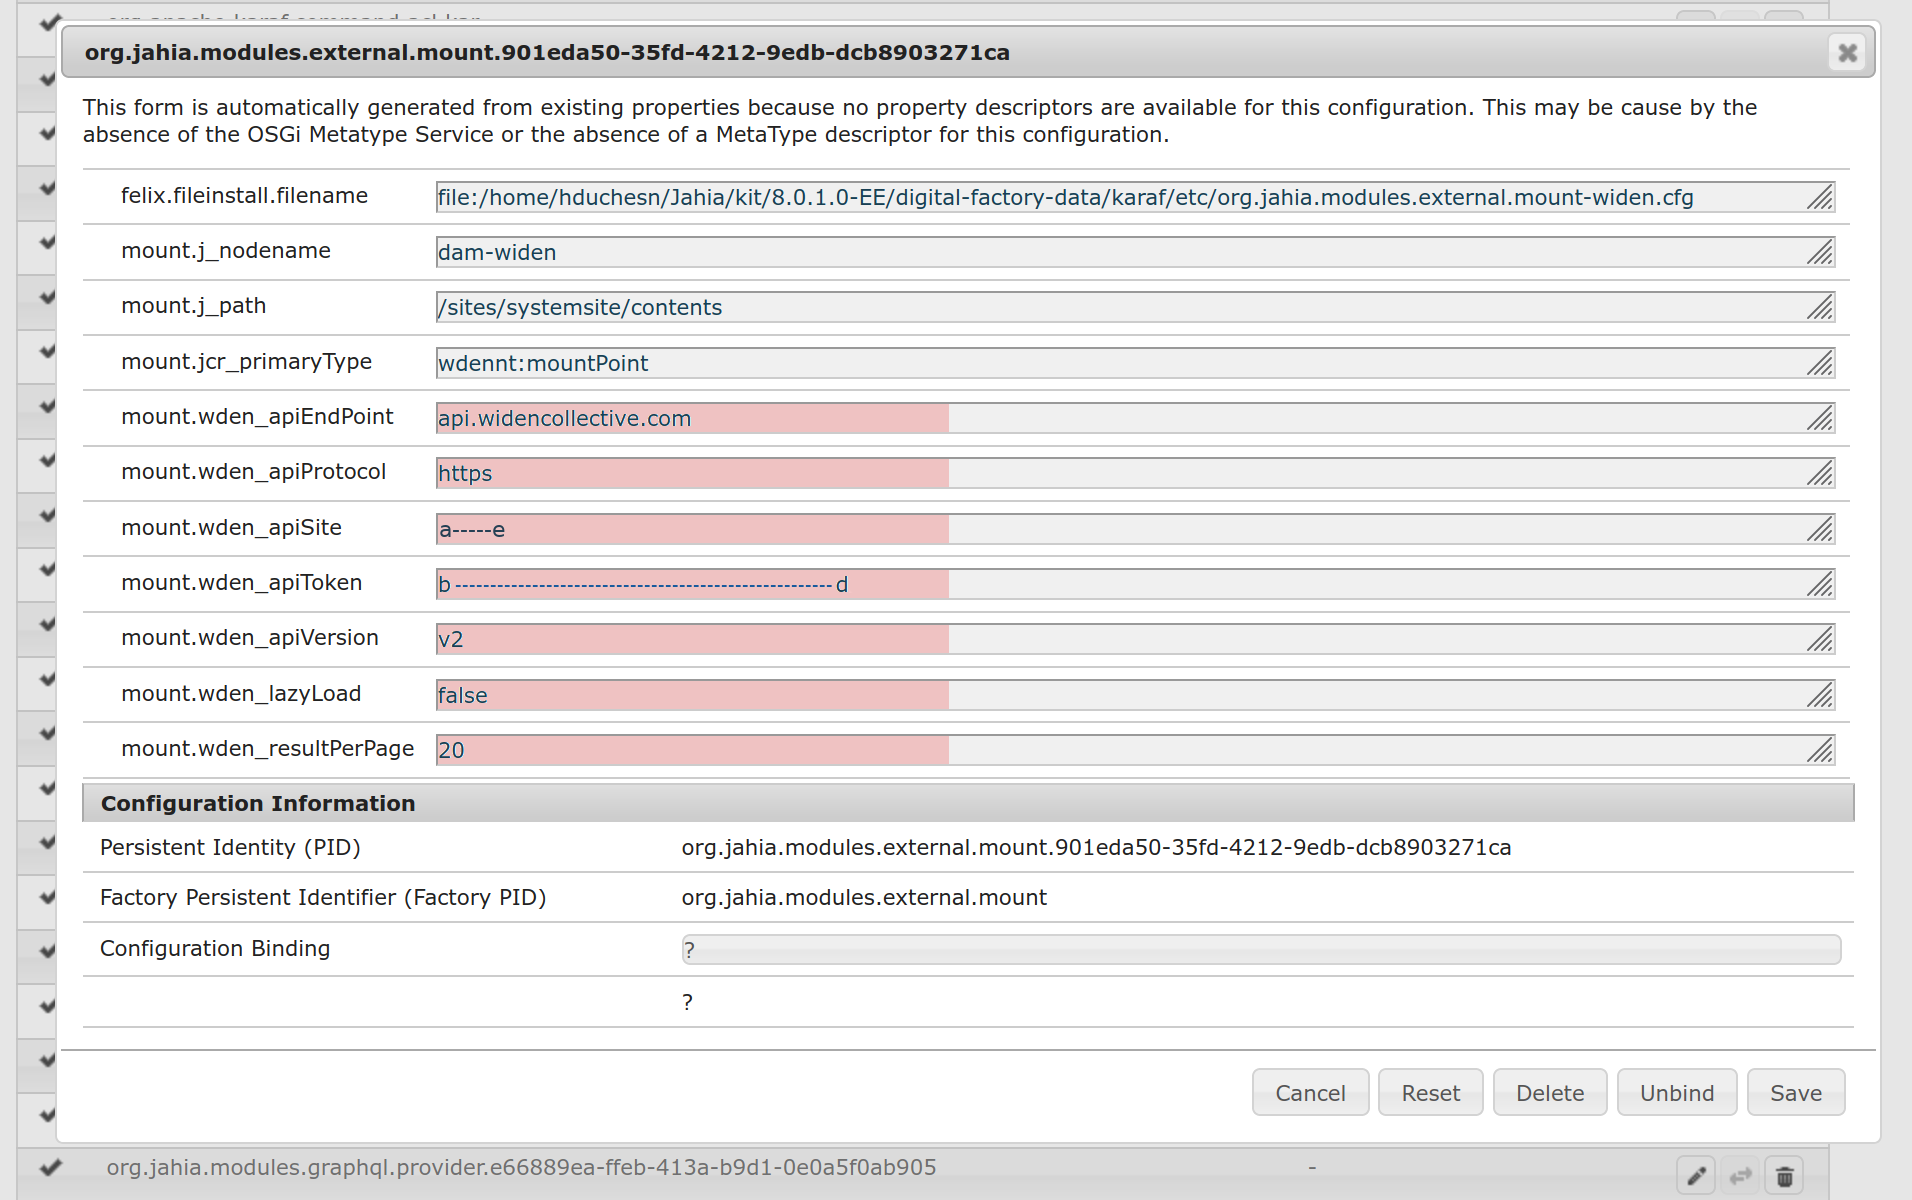
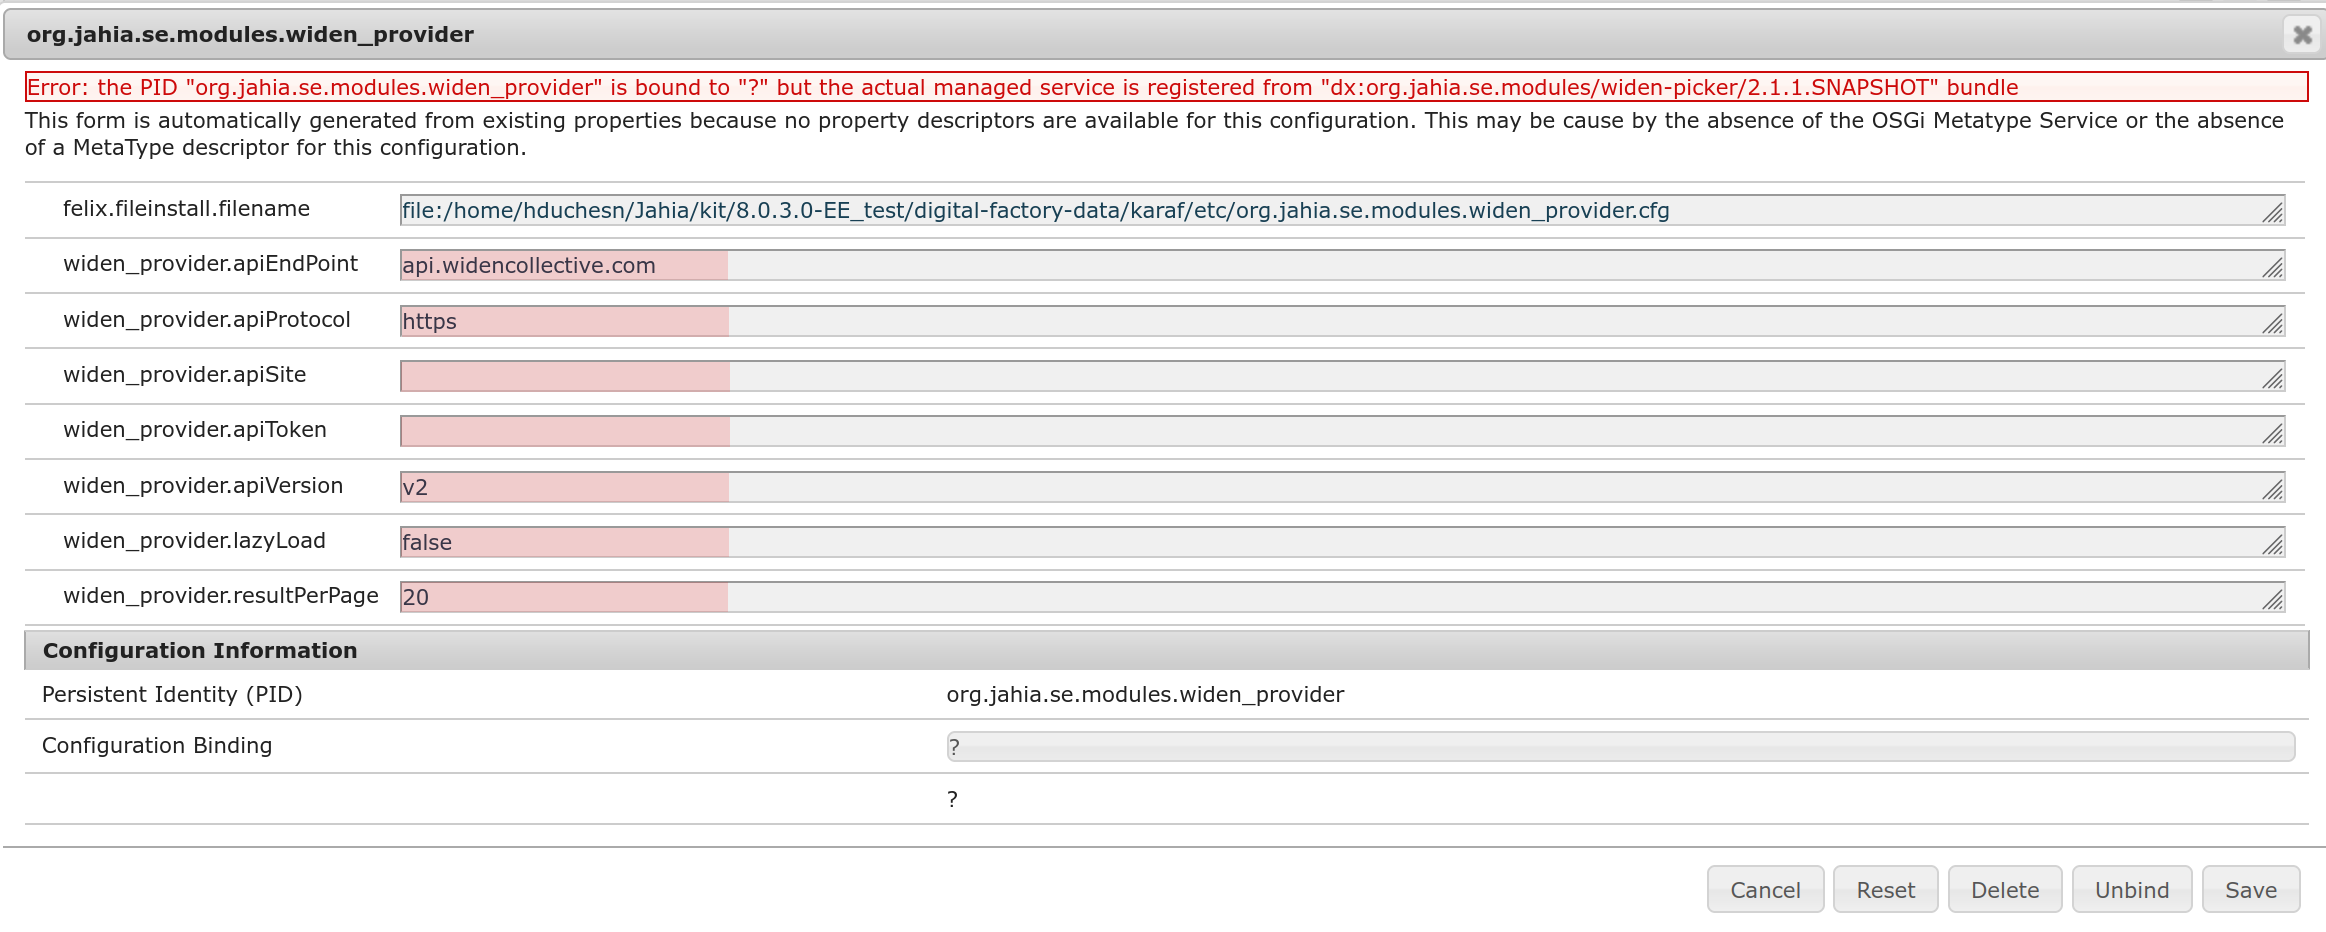
start to review the doc based on new changes

diff --git a/src/main/java/org/jahia/se/modules/edp/dam/widen/edp/WidenDataSource.java b/src/main/java/org/jahia/se/modules/edp/dam/widen/edp/WidenDataSource.java
@@ -27,15 +27,10 @@ public class WidenDataSource implements ExternalDataSource{
     private static final String ASSET_ENTRY = "assets";
     private static final String ASSET_ENTRY_EXPAND = "embeds,thumbnails,file_properties";
 
-//    private JahiaTemplatesPackage jahiaTemplatesPackage;
-
     private final ObjectMapper mapper = new ObjectMapper();
     private final WidenProviderConfig widenProviderConfig;
     private final WidenCacheManager widenCacheManager;
     private final HttpClient httpClient;
-
-//    private MountPoint wdenStoreMountPoint;
-
 
     public WidenDataSource(WidenProviderConfig widenProviderConfig, WidenCacheManager widenCacheManager) {
         this.widenProviderConfig = widenProviderConfig;
@@ -43,32 +38,6 @@ public class WidenDataSource implements ExternalDataSource{
         // instantiate HttpClient
         this.httpClient = new HttpClient();
     }
-
-//    @Reference(service = WidenCacheManager.class)
-//    public void setStoreCacheManager(WidenCacheManager widenCacheManager) {
-//        this.widenCacheManager = widenCacheManager;
-//    }
-//
-//    @Activate
-//    public void onActivate(BundleContext bundleContext) {
-//        jahiaTemplatesPackage = BundleUtils.getModule(bundleContext.getBundle());
-//    }
-//
-//    @Deactivate
-//    public void onDeactivate() {
-//    }
-//
-//    public MountPoint getStoreMountPoint() {
-//        return wdenStoreMountPoint;
-//    }
-//
-//    public void reload(MountPoint wdenStoreMountPoint){
-//        this.wdenStoreMountPoint = wdenStoreMountPoint;
-//    }
-
-//    public void setHttpClient(HttpClient httpClient) {
-//        this.httpClient = httpClient;
-//    }
 
     @Override
     public List<String> getChildren(String s) throws RepositoryException {

diff --git a/README.md b/README.md
@@ -58,11 +58,11 @@ To update the jahia.properties file on Jahia Cloud:
 ![][100]
 
 ### Deploy the module
-The module can be installed in 2 ways, from the source or from the store (available soon).
+The module can be installed in 2 ways, from the source or from the store.
 #### From the source
 1. Download the zip archive of the latest release.
 2. If you already know your Widen configuration (API key, site, and host) you can update the default
-configuration about Widen. Update properties starting with `mount.wden_` in the [mount-widen.cfg][mount.cfg] file. 
+configuration about Widen. Update properties in the [widen_provider.cfg][mount.cfg] file. 
 1. Go to the root of the repository.
 1. Run the `mvn clean install` command. This create a jar file in the *target* repository.
     > you must have a **java sdk** and **maven** installed
@@ -74,7 +74,7 @@ configuration about Widen. Update properties starting with `mount.wden_` in the 
     ![][030]
 
 #### From the store
-1. In jContent,navigate to `Administration`.
+1. In jContent, navigate to `Administration`.
 2. In the `Server` section, expand the `Modules and Extensions` entry and click `Modules`.
 3. From the right panel, click `Available modules` and search for **widen**.
 
@@ -86,26 +86,18 @@ configuration about Widen. Update properties starting with `mount.wden_` in the 
     ![][034]
 
 #### Check install
-If the module is properly deployed:
-1. You should find it in the `Installed modules` section.
+If the module is properly deployed you should find it in the `Installed modules` section.
 
-    ![][035]
+![][035]
     
-1. You should see the `dam-widen` in the list of Mount points.
-
-    ![][032]
-
-    This mount point is used by an External provider. 
-    
-    ![][031]
-    
-2. You should be able to create a new `Widen Reference` content.
-
-    <img src="./doc/images/0011_menuSelect.png" width="375px"/>
+If you have installed the module from the store or if you didn't configure the properties
+in the [widen_provider.cfg][mount.cfg] file before to build the module, you must do the post install
+to have the Widen provider starting.
 
 ### Post Install (optional)
->Skip this section of you have already configured the [mount-widen.cfg][mount.cfg] file during the *install from the source*
-process.
+>Skip this section if you have already configured the [widen_provider.cfg][mount.cfg] file during the *install from the source*
+process. 
+> This configuration doesn't require a server restart.
 
 To request the Widen server, you have to configure the module with your Widen API access information.
 
@@ -113,20 +105,27 @@ To set up your Widen API access:
 1. Go to  jahia tools (*https://\<jahia host\>/tools*).
 1. From the tools UI, click `OSGI console` under **Administration and Guidance**.
 
-![][0070]
+    ![][0070]
 
 1. In the top menu expand the entry **OSGI** and click **Configuration**.
 
-![][0072]
+    ![][0072]
 
-1. Look for `org.jahia.modules.external.mount.xxxxxxxx-xxx` and click on it. If you have more than one entry like this
-be sure to select the correct one. The filename must contain **org.jahia.modules.external.mount-widen.cfg**.
+1. Look for `org.jahia.se.modules.widen_provider` and click on it.
 
-1. Finally, update the approprite properties starting with `mount.wden_` and save your changes.
+1. Finally, update the appropriate properties starting with `widen_provider` and save your changes.
 
-![][0071]
+    ![][0071]
 
->This configuration doesn't require a server restart.
+1. If all the properties are set correctly, the provider should start,
+   and you should see the `widen` key in the list of External providers.
+
+    ![][031]
+
+2. Now, you should be able to create a new `Widen Reference` content.
+
+    <img src="./doc/images/0011_menuSelect.png" width="375px"/>
+
 ## Module details
 
 To pick a widen asset (for example a video, image, or PDF) from a Widen Cloud instance, you need to implement:
@@ -165,8 +164,8 @@ The data flow is composed of 10 actions of which 4 are optional and depend on th
 
     ![][0041]
 
-1. When the user saves their choice from the picker, a content path is created. This path is built with the value of
-    the properties `mount.j_path`, `mount.j_nodename`, and the `id` of the Widen asset.
+1. When the user saves their choice from the picker, a content path is created. This path is built with 
+   a static part `/sites/systemsite/contents/dam-widen`, and the `id` of the Widen asset.
     
     jContent cannot use this path directly as it expects to receive a node id. 
     Therefore, the picker executes a GraphQL call to create the node and get its id back.
@@ -237,10 +236,10 @@ The Widen CDN improves performance when assets load and allows Widen to collect 
 [provider.md]: ./doc/en/provider.md
 [enhance.md]: ./doc/en/enhance.md
 
-[mount.cfg]: ./content-editor-extensions/src/main/resources/META-INF/configurations/org.jahia.modules.external.mount-widen.cfg
-[definition.cnd]: ./content-editor-extensions/src/main/resources/META-INF/definitions.cnd
-[react:index.js]: ./content-editor-extensions/src/javascript/ContentEditorExtensions/SelectorTypes/DamWidenPicker/DamWidenPickerCmp.jsx
-[WidenDataSource.java]: ./content-editor-extensions/src/main/java/org/jahia/se/modules/edp/dam/widen/WidenDataSource.java
+[mount.cfg]: ./src/main/resources/META-INF/configurations/org.jahia.se.modules.widen_provider.cfg
+[definition.cnd]: ./src/main/resources/META-INF/definitions.cnd
+[react:index.js]: ./src/javascript/DamWidenPicker/DamWidenPickerCmp.jsx
+[WidenDataSource.java]: ./src/main/java/org/jahia/se/modules/edp/dam/widen/edp/WidenDataSource.java
 
 [widenAPI:AssetByQuery]: https://widenv2.docs.apiary.io/#reference/assets/assets/list-by-search-query
 [widenAPI:AssetById]: https://widenv2.docs.apiary.io/#reference/assets/assets/retrieve-by-id

diff --git a/doc/en/contentDefinition.md b/doc/en/contentDefinition.md
@@ -65,7 +65,7 @@ to add a widen asset into a page, a contributor must create a new `wdennt:widenR
 This node type is defined like this:
 ```cnd
 [wdennt:widenReference] > jnt:content,jmix:nodeReference, jmix:multimediaContent
- - j:node (weakreference, picker[type='custom',config='widenPicker']) < 'wdenmix:widenAsset'
+ - j:node (weakreference) < 'wdenmix:widenAsset'
 ```
 
 `wdennt:widenReference` extends 3 supertypes:
@@ -74,8 +74,9 @@ This node type is defined like this:
 1. `jmix:nodeReference` meaning the node is like a *wrapper* used to reference a subset of mutlimedia nodes.
     This mixin provides a default attribute `j:node` used to store the path of the referenced node.
 
->In this defintion, the property `j:node` is overwritten. Indeed, we want to use a custom picker named [widenPicker][picker.md]
-and restrict the allowed node type to be picked to node types that extend `wdenmix:widenAsset`.
+>In this defintion, the property `j:node` is overwritten. Indeed, we want to restrict the allowed
+> node type to be picked to node types that extend `wdenmix:widenAsset`, and use a custom picker
+> named [widenPicker][picker.md]. The picker is configured in the file [wdennt_widenReference.json]
 
 #### Mixins
 #### wdenmix:widenAsset
@@ -608,23 +609,24 @@ in a property named `wden:mediaNode` (weakreference).
 [040]: ../images/040_nodeArch.png
 [0011]: ../images/0011_menuSelect2.png
 -->
-[005]: ../images/005_widenReferenceSelected.png
-[100]: ../images/100_MediaReferenceMixin.png
-[101]: ../images/101_MediaReferenceMixin.png
+[005]: doc/images/005_widenReferenceSelected.png
+[100]: doc/images/100_MediaReferenceMixin.png
+[101]: doc/images/101_MediaReferenceMixin.png
 
-[definition.cnd]: ../../src/main/resources/META-INF/definitions.cnd
-[widenReference.jsp]: ../../src/main/resources/wdennt_widenReference/html/widenReference.jsp
-[image.jsp]: ../../src/main/resources/wdennt_image/html/image.jsp
-[image.hidden.getSrc.jsp]: ../../src/main/resources/wdennt_image/html/image.hidden.getSrc.jsp
-[video.jsp]: ../../src/main/resources/wdennt_video/html/video.jsp
-[video.player.vjs.jsp]: ../../src/main/resources/wdennt_video/html/video.player.vjs.jsp
-[video.stream.jsp]: ../../src/main/resources/wdennt_video/html/video.stream.jsp
-[pdf.link.jsp]: ../../src/main/resources/wdennt_pdf/html/pdf.link.jsp
-[pdf.viewerHTML5.jsp]: ../../src/main/resources/wdennt_pdf/html/pdf.viewerHTML5.jsp
-[pdf.jsp]: ../../src/main/resources/wdennt_pdf/html/pdf.jsp
+[definition.cnd]: src/main/resources/META-INF/definitions.cnd
+[widenReference.jsp]: src/main/resources/wdennt_widenReference/html/widenReference.jsp
+[image.jsp]: src/main/resources/wdennt_image/html/image.jsp
+[image.hidden.getSrc.jsp]: src/main/resources/wdennt_image/html/image.hidden.getSrc.jsp
+[video.jsp]: src/main/resources/wdennt_video/html/video.jsp
+[video.player.vjs.jsp]: src/main/resources/wdennt_video/html/video.player.vjs.jsp
+[video.stream.jsp]: src/main/resources/wdennt_video/html/video.stream.jsp
+[pdf.link.jsp]: src/main/resources/wdennt_pdf/html/pdf.link.jsp
+[pdf.viewerHTML5.jsp]: src/main/resources/wdennt_pdf/html/pdf.viewerHTML5.jsp
+[pdf.jsp]: src/main/resources/wdennt_pdf/html/pdf.jsp
 [mount.cfg]:  src/main/resources/META-INF/configurations/org.jahia.se.modules.widen_provider.cfg
+[wdennt_widenReference.json]: src/main/resources/META-INF/jahia-content-editor-forms/fieldsets/wdennt_widenReference.json
 
-[README.md]: ../../README.md
+[README.md]: README.md
 [provider.md]: ./provider.md
 [picker.md]: ./picker.md
 
